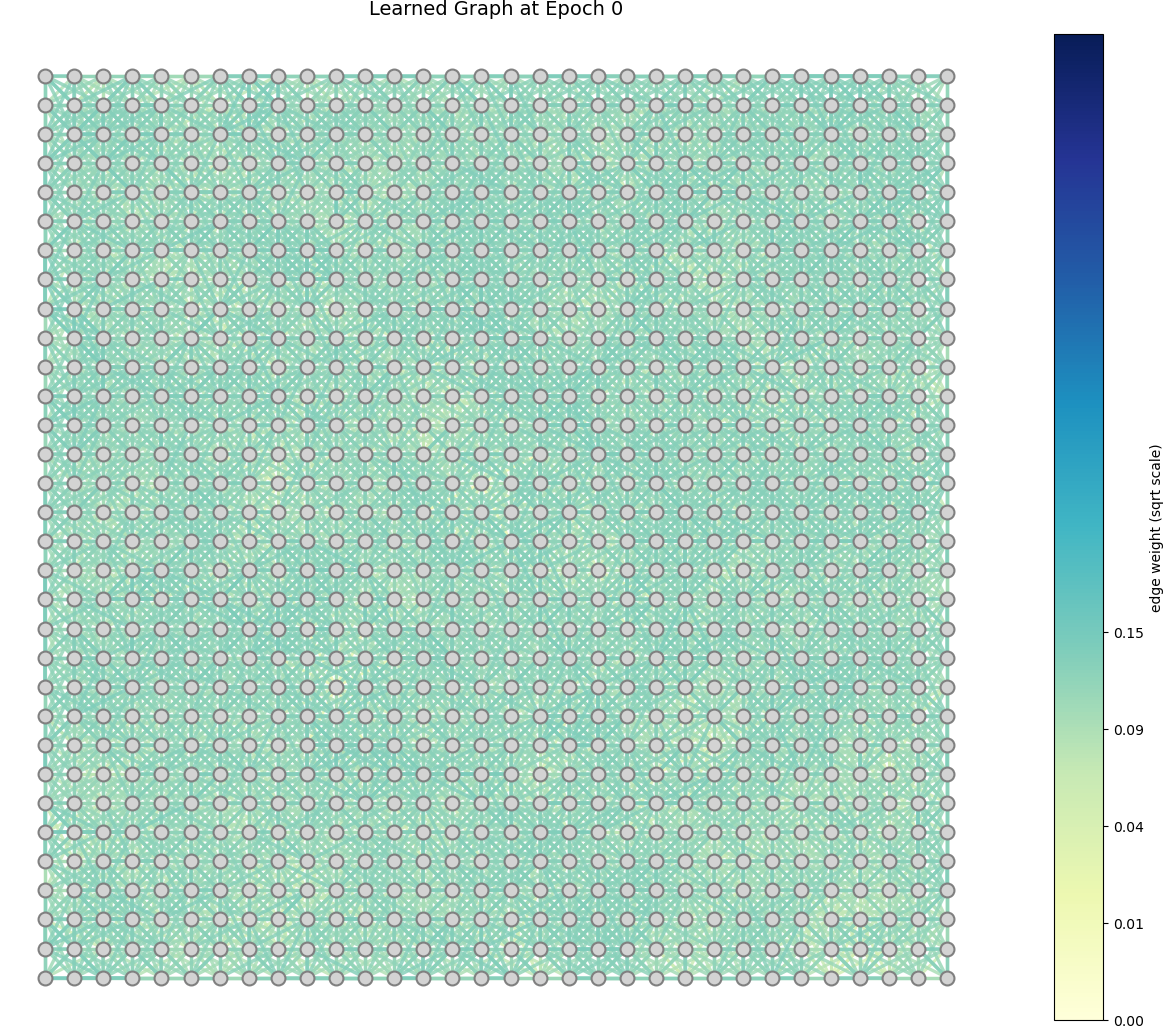
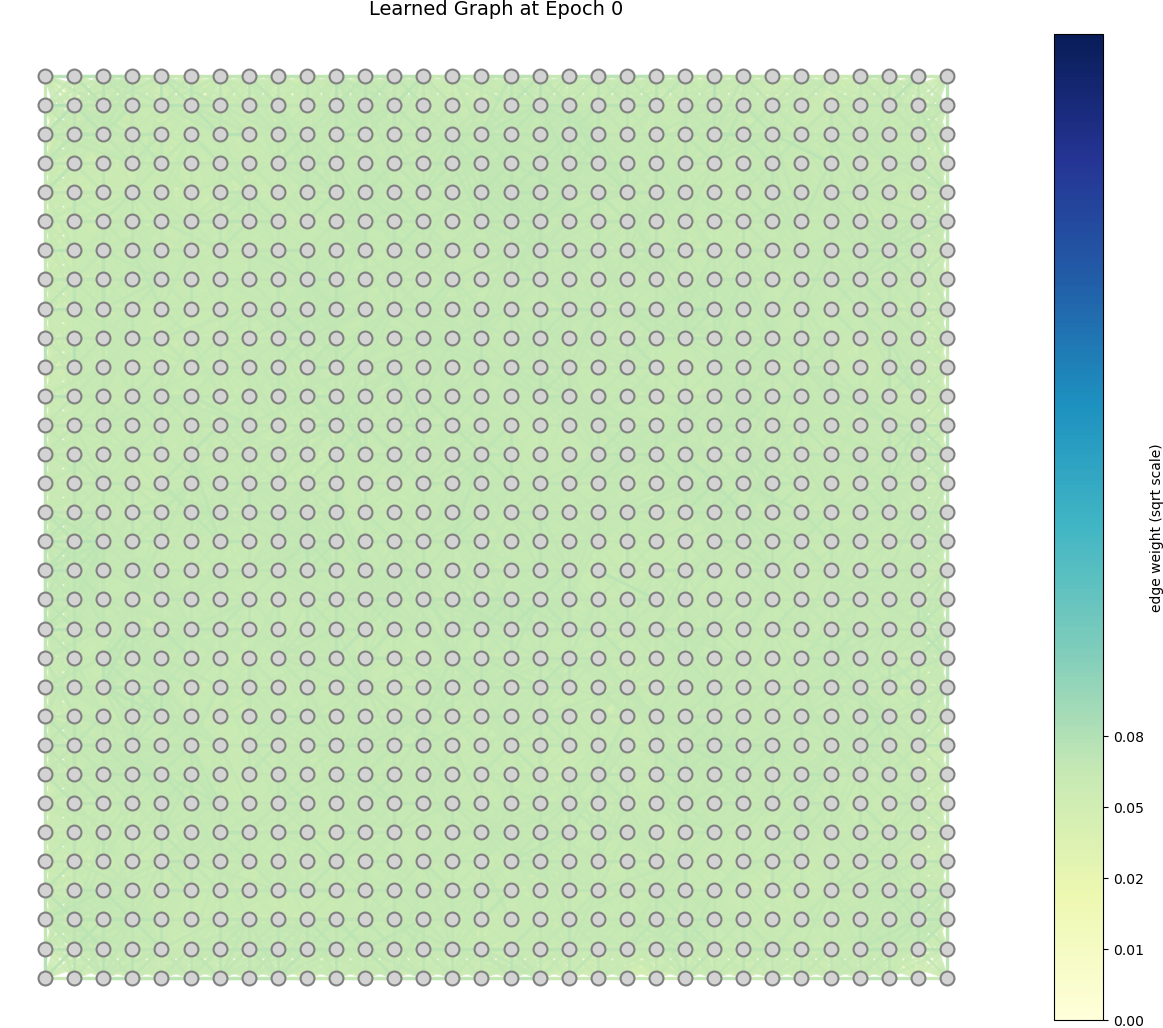
refined demo codes

diff --git a/model/unrolled_GEM.py b/model/unrolled_GEM.py
@@ -17,7 +17,7 @@ class GraphLearningModule(nn.Module):
         self.num_nodes = num_nodes
         self.num_neighbors = num_neighbors
         self.neighbor_list = neighbor_list # in (N, k)
-        self.neighbor_mask = (neighbor_list != -1)  # (N, k), original w mask
+        self.neighbor_mask = (neighbor_list != -1).to('cuda:1')  # (N, k), original w mask
         self.emb_dim = emb_dim
         self.feature_dim = feature_dim
 
@@ -62,9 +62,12 @@ class GraphLearningModule(nn.Module):
             print('embedded x + e:', torch.isnan(e).any())
             print('features f:', torch.isnan(f).any())
             raise ValueError('NaN detected in w computation!')
+        
+        assert torch.isnan(w).any() == False, "w has NaN values!"
 
         w = w * self.neighbor_mask.float()  # mask non-edges
-        assert torch.allclose(w * self.neighbor_mask.float(), w), "w has non-zero weights on non-edges!"
+        # assert torch.isnan(w).any() == False, "w has NaN values!"
+        assert torch.allclose(w * self.neighbor_mask.float(), w), f"w has non-zero weights on non-edges!, difference {(w * self.neighbor_mask.float() - w).abs().max().item()}"
 
         return w # (N, k)
     
@@ -127,9 +130,9 @@ class UnrolledGEM(nn.Module):
         self.GEM_iters = GEM_iters
 
         # TODO: define CG solvers
-        self.E_CG_solvers = nn.ModuleList([CG_solver(E_step_iters, alpha_init=0.1, beta_init=0.1) for _ in range(GEM_iters)])
-        self.M1_CG_solvers = nn.ModuleList([CG_solver(self.M1_CG_iters, alpha_init=0.1, beta_init=0.1) for _ in range(GEM_iters)])
-        self.M2_CG_solvers = nn.ModuleList([nn.ModuleList([CG_solver(self.M2_CG_iters, alpha_init=0.1, beta_init=0.1) for _ in range(PGD_iters)]) for _ in range(GEM_iters)])
+        self.E_CG_solvers = nn.ModuleList([CG_solver(E_step_iters, alpha_init=0.2, beta_init=0.2) for _ in range(GEM_iters)])
+        self.M1_CG_solvers = nn.ModuleList([CG_solver(self.M1_CG_iters, alpha_init=0.2, beta_init=0.2) for _ in range(GEM_iters)])
+        self.M2_CG_solvers = nn.ModuleList([nn.ModuleList([CG_solver(self.M2_CG_iters, alpha_init=0.2, beta_init=0.2) for _ in range(PGD_iters)]) for _ in range(GEM_iters)])
 
         self.mu = nn.Parameter(torch.ones((self.GEM_iters,)) * mu)  # learnable mu for E-step
         self.c = c # Here, C is the F-norm contraint, not squared
@@ -322,10 +325,12 @@ class UnrolledGEM(nn.Module):
         PGD step to update the wacency mask A
         ''' 
         # N = self.glm.num_nodes
+        assert torch.allclose(w_0 * self.neighbor_mask.float(), w_0), "w_0 has non-zero weights on non-edges!"
         A = A_init if A_init is not None else self.neighbor_mask.float()
         w, alpha = self.scale_w(w_0 * A)  # initial scaling
         # pre-fill the initial values
         w_0_alpha = w_0 * alpha
+        assert torch.allclose(w * self.neighbor_mask.float(), w), f"w has non-zero weights on non-edges!, difference {(w * self.neighbor_mask.float() - w).abs().max().item()}"
         # print('tr(RL)=', (r_tilde * w).sum().item() / 2)  # check validation, = n-1
         # for fixed x, edge_diffs is fixed
         edge_diff_squares = self._edge_diff_square(x)  # (N, k)
@@ -352,6 +357,7 @@ class UnrolledGEM(nn.Module):
             A = A_new
             # recompute graphs
             w = w_0_alpha * A  # (N, k)
+            assert torch.allclose(w * self.neighbor_mask.float(), w), "w has non-zero weights on non-edges!"
             # print(f'  PGD Iter {iter+1}/{self.PGD_iters}, tr(RL)=', (r_tilde * w).sum().item() / 2)  # check validation, = n-1
         
         return A
@@ -400,7 +406,7 @@ class UnrolledGEM(nn.Module):
     
         # init w and A
         w_0 = self.glm(y) if w_init is None else w_init
-        A = self.neighbor_mask.float() if A_init is None else A_init
+        A = self.neighbor_mask.float().clone().to(w_0.device) if A_init is None else A_init
         # rescale
         w, _ = self.scale_w(w_0 * A)
         # w_plot = w.clone().detach().numpy()
@@ -415,11 +421,11 @@ class UnrolledGEM(nn.Module):
             params = new_params
            
             # if it % epochs == 0:
-            #     print('A statistics: min=', A[self.neighbor_mask].min().item(), ', max=', A[self.neighbor_mask].max().item(), ', mean=', A[self.neighbor_mask].mean().item())
+            print('A statistics: min=', A[self.neighbor_mask].min().item(), ', max=', A[self.neighbor_mask].max().item(), ', mean=', A[self.neighbor_mask].mean().item())
             #     print('w_0 statistics: min=', w_0[self.neighbor_mask].min().item(), ', max=', w_0[self.neighbor_mask].max().item(), ', mean=', w_0[self.neighbor_mask].mean().item())
 
-        print('w statistics: min=', w[self.neighbor_mask].min().item(), ', max=', w[self.neighbor_mask].max().item(), ', mean=', w[self.neighbor_mask].mean().item())
-        print(f'left edges: {(A[self.neighbor_mask] > 0).sum().item() // 2} / {self.neighbor_mask.sum().item() // 2}')
+            print('w statistics: min=', w[self.neighbor_mask].min().item(), ', max=', w[self.neighbor_mask].max().item(), ', mean=', w[self.neighbor_mask].mean().item())
+            print(f'left edges: {(A[self.neighbor_mask] > 0).sum().item() // 2} / {self.neighbor_mask.sum().item() // 2}')
             # TODO: print
 
         return x, w_0, A, w

diff --git a/train_demo.py b/train_demo.py
@@ -3,6 +3,7 @@ import torch.nn as nn
 from model.unrolled_GEM import UnrolledGEM
 from dataloader.data_utils import *
 import time
+from tqdm import tqdm   
 
 # Generate graph and data
 n_row = 32
@@ -12,7 +13,7 @@ k = kernel ** 2 - 1
 feature_dim = 6
 num_nodes = n_row * n_row
 # signal generation
-y = generate_y_from_grid(n_row, sigma=0.4, n=512)
+x, y = generate_y_from_grid(n_row, sigma=0.4, n=512)
 
 # base graph generation
 nearest_neighbors = generate_kNN_from_grid(n_row, kernel, k)
@@ -35,7 +36,7 @@ model_param_dict = {
     'E_step_iters': 3,
     'inv_CG_iters': 4,
     'PGD_iters': 5,
-    'PGD_step_size': 0.1,
+    'PGD_step_size': 0.02,
     'M1_step_size': 0.02,
     'scale': True,
     'GEM_iters': 3,
@@ -51,50 +52,51 @@ print(f'Model total parameters: {total_params}')
 model.train()
 y = y.to(device)
 target = torch.zeros_like(y).to(device)
-batch_size = 8
+batch_size = 32
 num_batches = y.shape[0] // batch_size
 
 
-optimizer = torch.optim.Adam(model.parameters(), lr=0.001)
+optimizer = torch.optim.Adam(model.parameters(), lr=0.0005)
 
 # device = torch.device("cuda")
 
 model = model.to(device)
 start_time = time.time()
-for i in range(10):
-    optimizer.zero_grad()
-    torch.cuda.reset_peak_memory_stats(device)
-    torch.cuda.empty_cache()
-    torch.cuda.synchronize(device)  # 👈 必须
+for epochs in tqdm(range(5)):
+    for i in range(num_batches):
+        # optimizer.zero_grad()
+        # torch.cuda.reset_peak_memory_stats(device)
+        # torch.cuda.empty_cache()
+        # torch.cuda.synchronize(device)  # 👈 必须
 
-    y_batch = y[i*batch_size:(i+1)*batch_size].to(device)
+        y_batch = y[i*batch_size:(i+1)*batch_size].to(device)
 
-    # import torch.profiler
+        # import torch.profiler
 
-    # with torch.profiler.profile(
-    #     activities=[torch.profiler.ProfilerActivity.CPU, torch.profiler.ProfilerActivity.CUDA],
-    #     record_shapes=True,
-    #     profile_memory=True,
-    #     with_stack=True
-    # ) as prof:
-    #     output, _, _, _ = model(y_batch)
-    #     target = torch.zeros_like(output)
-    #     loss = nn.MSELoss()(output, target)
-    #     loss.backward()
-    #     optimizer.step()
+        # with torch.profiler.profile(
+        #     activities=[torch.profiler.ProfilerActivity.CPU, torch.profiler.ProfilerActivity.CUDA],
+        #     record_shapes=True,
+        #     profile_memory=True,
+        #     with_stack=True
+        # ) as prof:
+        #     output, _, _, _ = model(y_batch)
+        #     target = torch.zeros_like(output)
+        #     loss = nn.MSELoss()(output, target)
+        #     loss.backward()
+        #     optimizer.step()
 
-    # print(prof.key_averages().table(sort_by="cuda_memory_usage", row_limit=10))
-    output, _, _, _ = model(y_batch)
-    target = torch.zeros_like(output)
-    loss = nn.MSELoss()(output, target)
-    loss.backward()
-    optimizer.step()
+        # print(prof.key_averages().table(sort_by="cuda_memory_usage", row_limit=10))
+        output, _, _, _ = model(y_batch)
+        target = x[i*batch_size:(i+1)*batch_size].to(device)
+        loss = nn.MSELoss()(output, target)
+        loss.backward()
+        optimizer.step()
 
 
-    torch.cuda.synchronize(device)  # 👈 必须
+        # torch.cuda.synchronize(device)  # 👈 必须
 
-    max_memory = torch.cuda.max_memory_allocated(device) / (1024 ** 2)
-    print(f"Batch {i+1}/{num_batches}, Max GPU memory allocated: {max_memory:.2f} MB")
+        # max_memory = torch.cuda.max_memory_allocated(device) / (1024 ** 2)
+        # print(f"Batch {i+1}/{num_batches}, Max GPU memory allocated: {max_memory:.2f} MB")
 
 
 

diff --git a/train_GEM_GNN.py b/train_GEM_GNN.py
@@ -10,7 +10,7 @@ class DummyGraphDataset(torch.utils.data.Dataset):
         self.num_nodes = num_row * num_row
         self.sigma = sigma
         self.data_len = data_len
-        self.data = generate_y_from_grid(num_row, sigma, data_len)
+        _, self.data = generate_y_from_grid(num_row, sigma, data_len)
         # self.data = self.data.unsqueeze(0)  # (1, data_len, N)
 
     def __len__(self):
@@ -29,7 +29,7 @@ if __name__ == "__main__":
     hidden_dim = 16
     out_dim = 2
     lr = 1e-2
-    batch_size = 64
+    batch_size = 32
     max_epochs = 13
 
     # 数据
@@ -39,8 +39,8 @@ if __name__ == "__main__":
     # 模型
     model = GEM_GNN(
         num_nodes=32*32,
-        num_neighbors=24,
-        neighbor_list=generate_kNN_from_grid(32, kernel=5, k=24),
+        num_neighbors=48,
+        neighbor_list=generate_kNN_from_grid(32, kernel=7, k=48),
         mu=0.2,
         gamma=0.4,
         emb_dim=8,
@@ -49,8 +49,8 @@ if __name__ == "__main__":
         theta=0.5,
         method='CG',
         inv_method='L+J',
-        CG_iters=8,
-        PGD_iters=10,
+        CG_iters=5,
+        PGD_iters=8,
         PGD_step_size=0.01,
         scale=True,
         GEM_iters=5,

diff --git a/dataloader/data_utils.py b/dataloader/data_utils.py
@@ -163,16 +163,24 @@ def generate_y_from_grid(n_row, sigma, n, edge_weights=0.6):
     J = torch.ones((num_nodes,num_nodes), device=L.device) / num_nodes
     L_pinv = torch.linalg.inv(L + J) - J
     # print(L_pinv)
+    L_pinv = (L_pinv + L_pinv.t()) / 2  # ensure symmetry
+
+    x = torch.distributions.MultivariateNormal(
+        loc=torch.zeros(num_nodes),
+        covariance_matrix=L_pinv
+    ).sample((n,))
+
+    y = x + torch.randn_like(x) * sigma
 
     cov = sigma**2 * torch.eye(num_nodes) + L_pinv
     cov = (cov + cov.t()) / 2
     
-    y = torch.distributions.MultivariateNormal(
-        loc=torch.zeros(num_nodes),
-        covariance_matrix=cov
-    ).sample((n,))
+    # y = torch.distributions.MultivariateNormal(
+    #     loc=torch.zeros(num_nodes),
+    #     covariance_matrix=cov
+    # ).sample((n,))
     
-    return y
+    return x, y
 
 
 # Example usage
